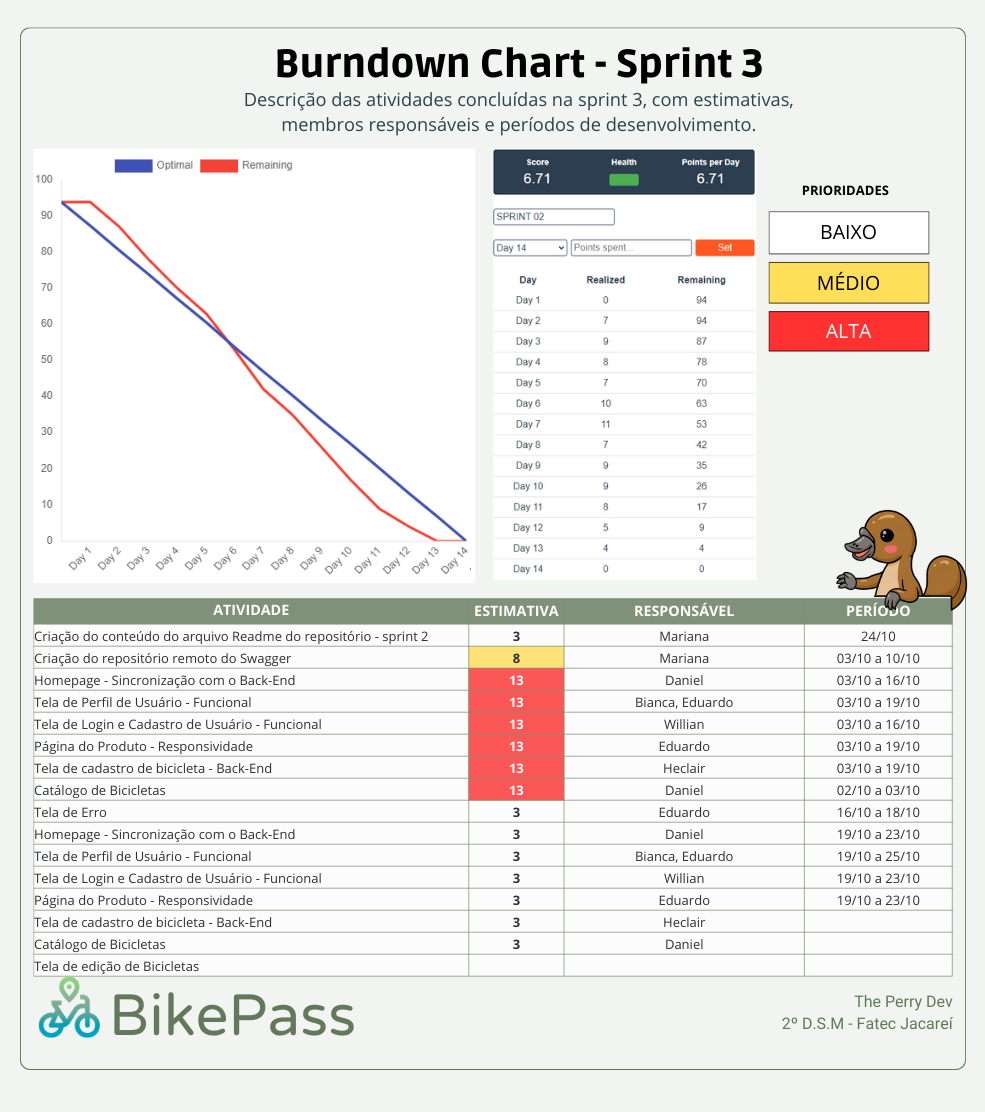
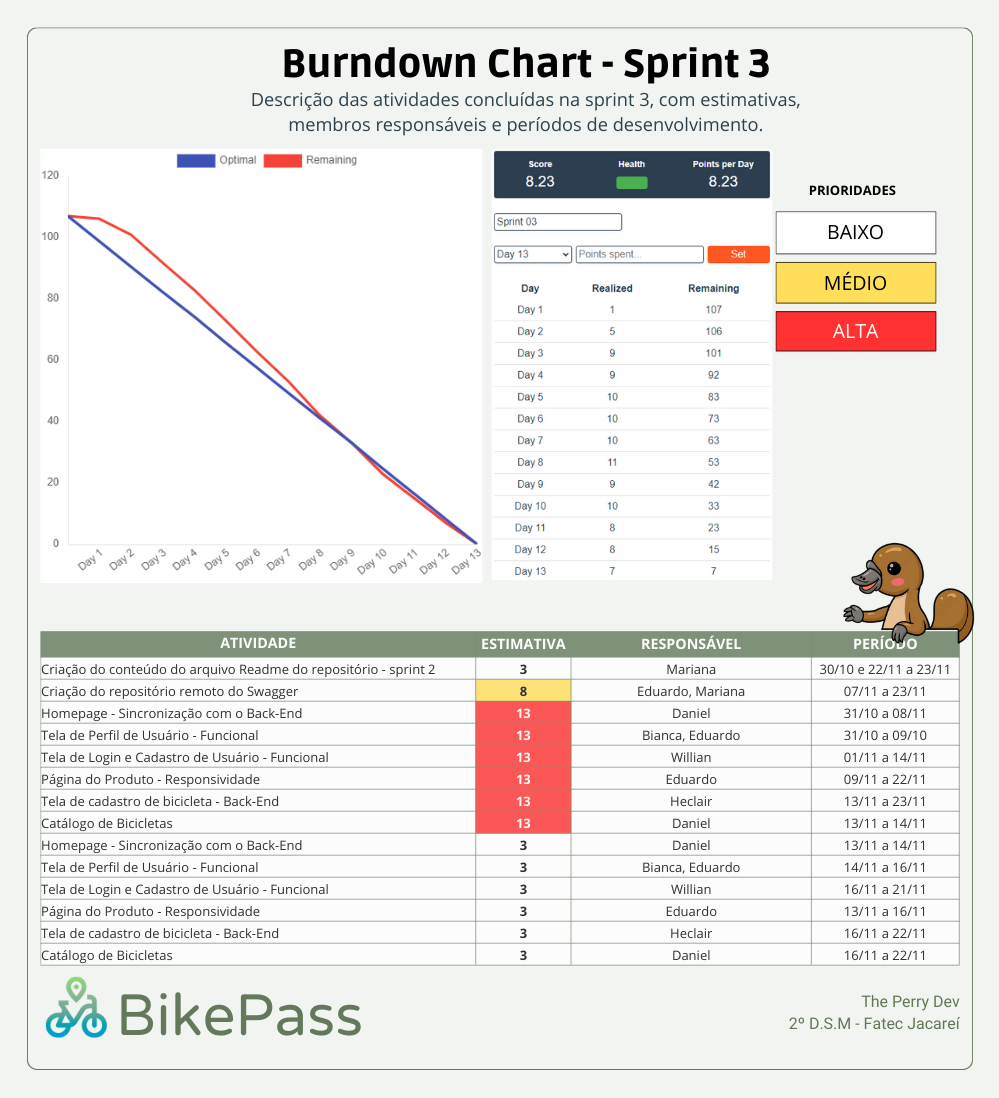
sprint-03

diff --git a/README.md b/README.md
@@ -30,16 +30,19 @@ Os requisitos (funcionais e não funcionais) abrangidos por essa sprint são:
         
 ## :heavy_check_mark: Entregas
 
-### Criação do repositório remoto do Swagger
+### 📌 Criação do repositório remoto do Swagger
 
-Neste requisito, a equipe teve como objetivo a criação do repositório remoto no Swagger para cadastrar a documentação do projeto.
+Neste requisito, a equipe teve como objetivo a criação do repositório remoto no Swagger, para realizado o cadastro de toda documentação do projeto, afim de possuir uma documentação organizada e clara, disponível para a consulta de todos.
 
-### Tornar a Homepage, tela do perfil do usuário, tela de login e cadastro e tela de produtos
+### 📌 Tornar a Homepage, tela do perfil do usuário, tela de login e cadastro e tela de produtos
 
-Após o desenvolvimento de cada tela necessária para o funcionamento do site, foi realizada toda a sincronização de todo Back-end com o Front-end, tornando o site pronto para os testes finais 
+Após o desenvolvimento de cada tela necessária para o funcionamento do site, Homepage, tela do perfil do usuário, tela de login, tela de cadastro de produtos, e tela de produtos foi realizada toda a sincronização de todo Back-end com o Front-end, tornando o site pronto para os testes finais 
+
+### 📌 Testes e Correções
+
+Após o desenvolvimento das telas e a sincronização de todo Back-end com o Front-end, as páginas passaram para os testes finais, onde foram corrigidos os possíveis Bugs, de forma a tornar o projeto todo funcional. 
 
 Sendo asssim, finalizamos os requisitos propostos para esta sprint.
-
 
 → [Voltar ao topo](#topo)
 
@@ -47,7 +50,7 @@ Sendo asssim, finalizamos os requisitos propostos para esta sprint.
  <span id="metricas">
      
 ## :chart_with_upwards_trend: Métricas do time
-Em prol de um melhor aproveitamento do tempo disponível durante a segunda sprint o time se dividiu em atividades de desenvolvimento das telas da Homepage, Perfil de Usuário, Login e Cadastro do Usuário e dos Produtos, assim como estruturação da equipe para gestão das horas com o gráfico burndown abaixo.
+Em prol de um melhor aproveitamento do tempo disponível durante a terceira sprint o time se dividiu em atividades de desenvolvimento e sincronização do Back-end com o Front-end, das telas da Homepage, Perfil de Usuário, Login e Cadastro do Usuário e dos Produtos, assim como estruturação da equipe para gestão das horas com o gráfico burndown abaixo.
     
 <p align="center"><img src="./Imagens_md/burndown3.png" /></p>
     
